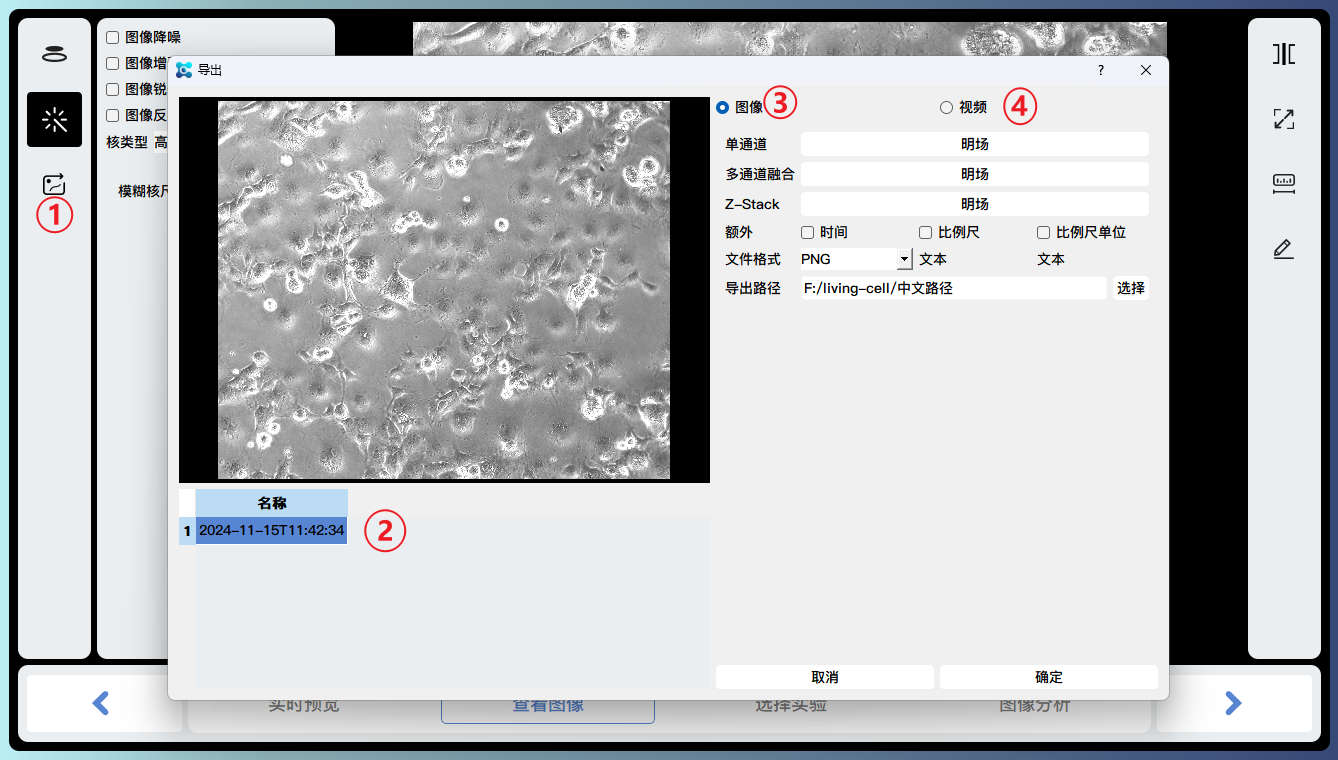
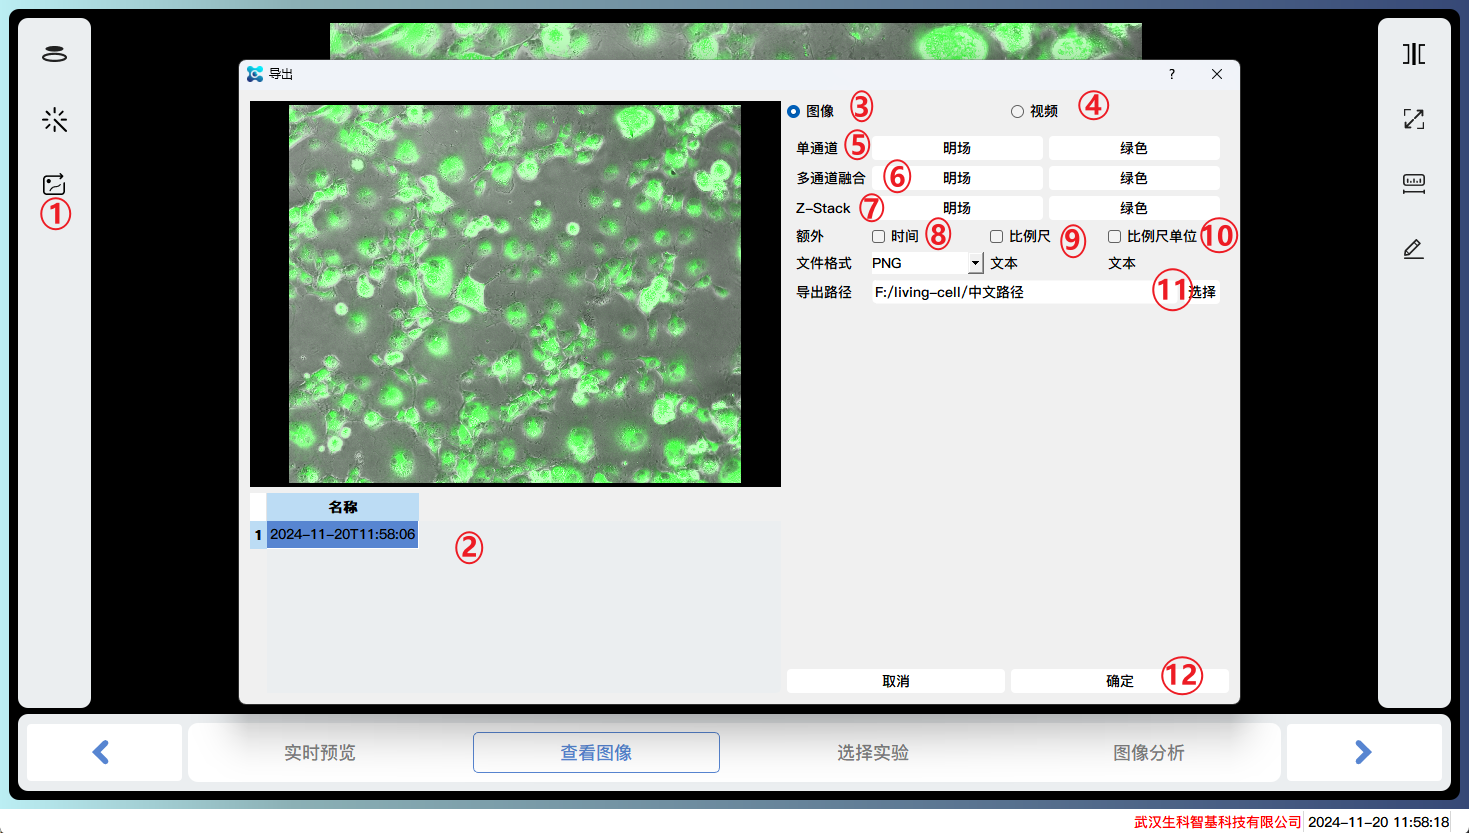
add content for export

diff --git a/source/user_guide/function.md b/source/user_guide/function.md
@@ -83,6 +83,26 @@ View the captured image and adjust the image effect.
 2. Select the image to be exported
 3. Export image files
 4. Export video files
+5. Multiple selection of single channel images
+6. Multiple channel images can be stacked and exported
+7. Export channel images captured by Z-Stack
+8. The exported image comes with relative time
+9. The exported image comes with a scale bar
+10. Export images with scale units attached
+11. Choose the export path
+12. Click OK to batch export multiple image files
+
+![](../_static/images/export_video.png)
+
+1. Image/video export
+2. Export video files
+3. Multiple selection of single channel images
+4. Multiple channel images can be stacked and exported
+5. The exported video comes with relative time
+6. The exported video comes with a scale bar
+7. Export videos with scale units attached
+8. Choose the export path
+9. Click OK to batch export multiple video files
 
 ### Choose Experiment
 Select an analysis module
